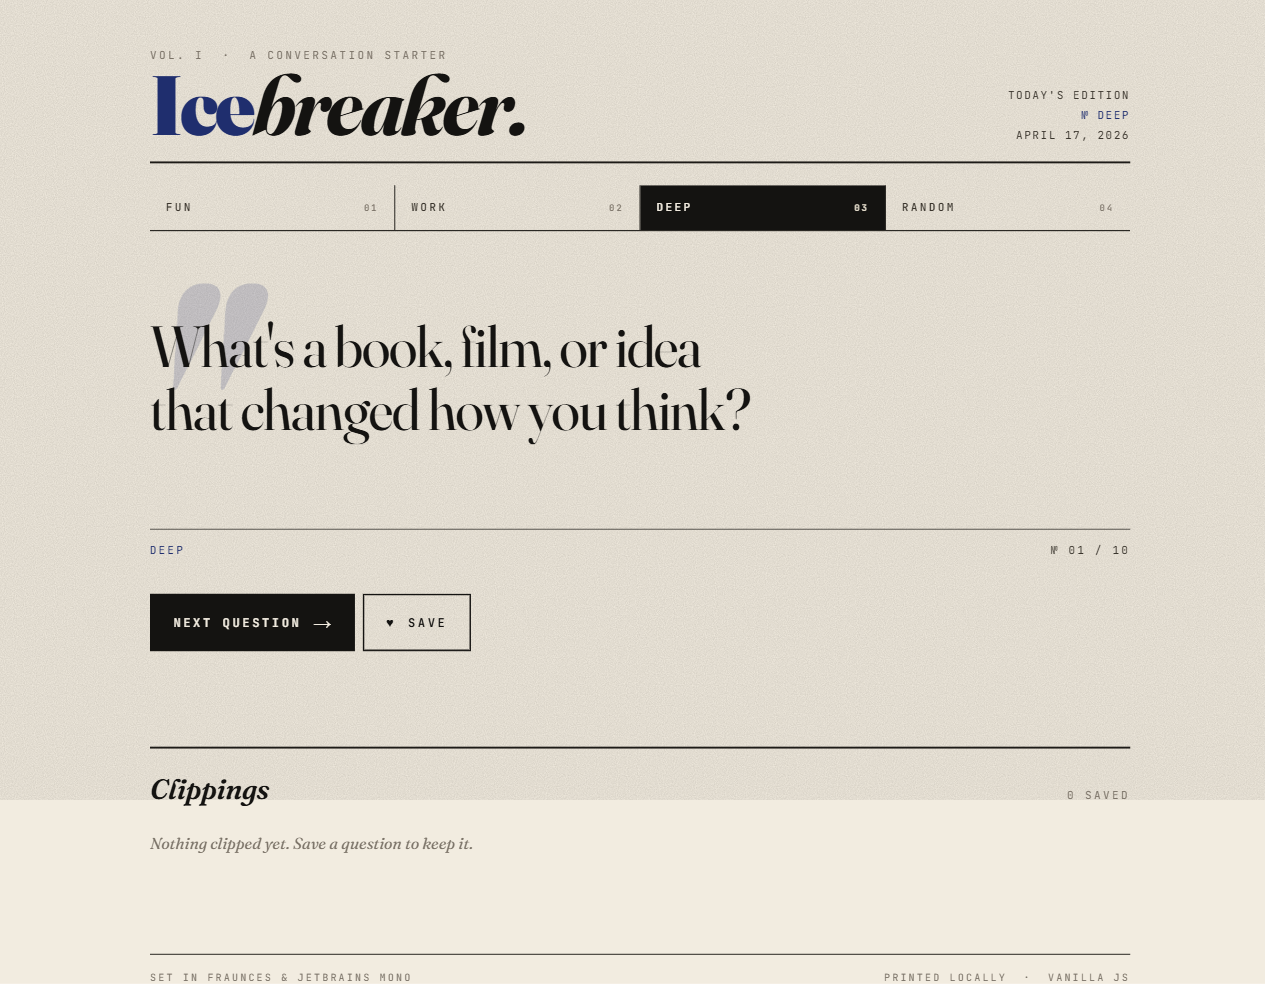
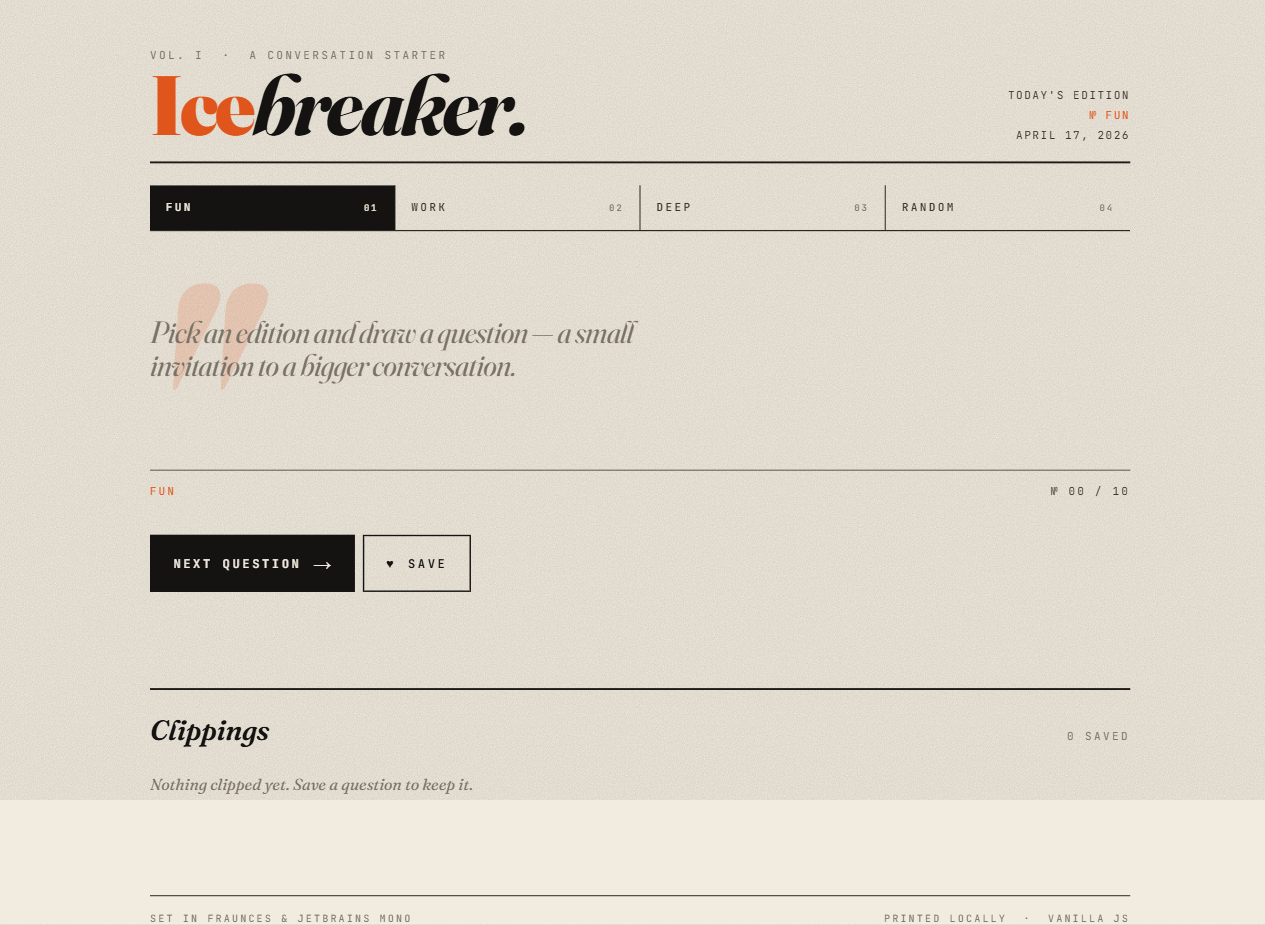
Restore README with refreshed screenshot

diff --git a/README.md b/README.md
@@ -1,0 +1,28 @@
+# Icebreaker
+
+A tiny single-page web app that serves up random icebreaker questions across four categories: **Fun**, **Work**, **Deep**, and **Random**. Pick a category, hit *Next Question*, and save the ones you like — favorites persist in `localStorage`. Set like a small editorial in Fraunces & JetBrains Mono, with a per-category accent that threads through the masthead, gutter, and quote mark.
+
+![Icebreaker app screenshot](screenshot.png)
+
+## Live demo
+
+Deployed via GitHub Pages: <https://lnsadani.github.io/icebreaker/>
+
+## Running locally
+
+No build step, no dependencies. Just open `index.html` in a browser, or serve the folder:
+
+```bash
+npx http-server -p 8765
+```
+
+Then visit <http://127.0.0.1:8765/>.
+
+## Files
+
+- `index.html` — the app (published to GitHub Pages)
+- `icebreaker.html` — working copy / development version
+
+## Tech
+
+Plain HTML, CSS, and vanilla JavaScript. No frameworks. Fonts via Google Fonts (Fraunces + JetBrains Mono).
